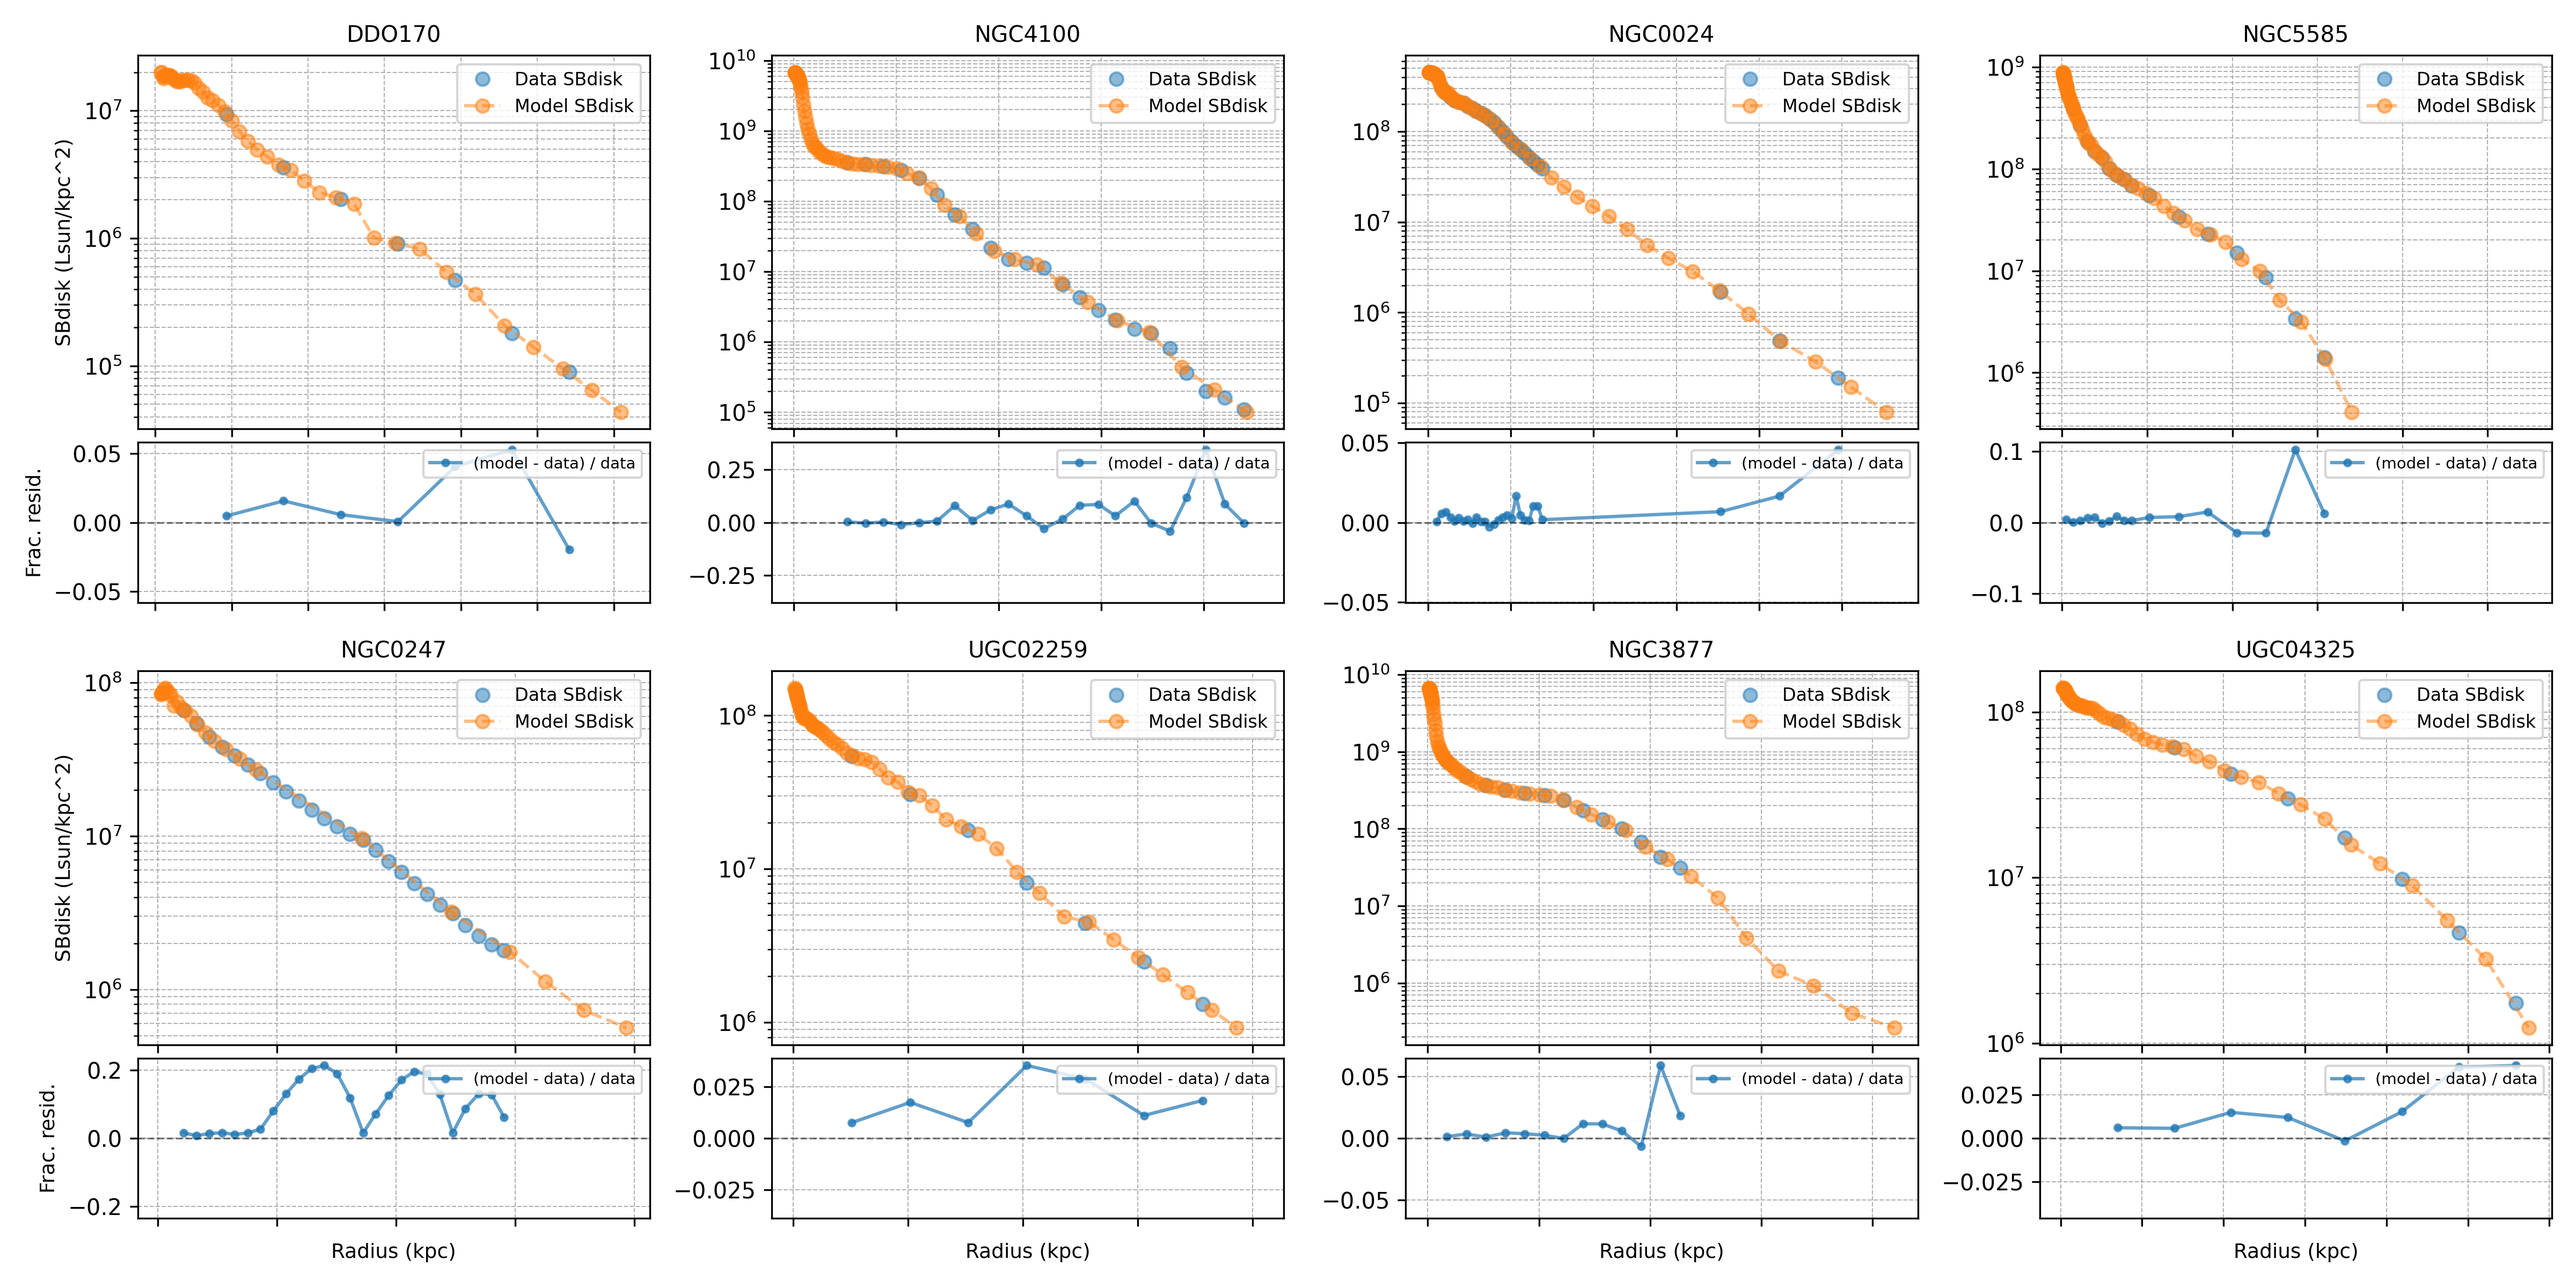
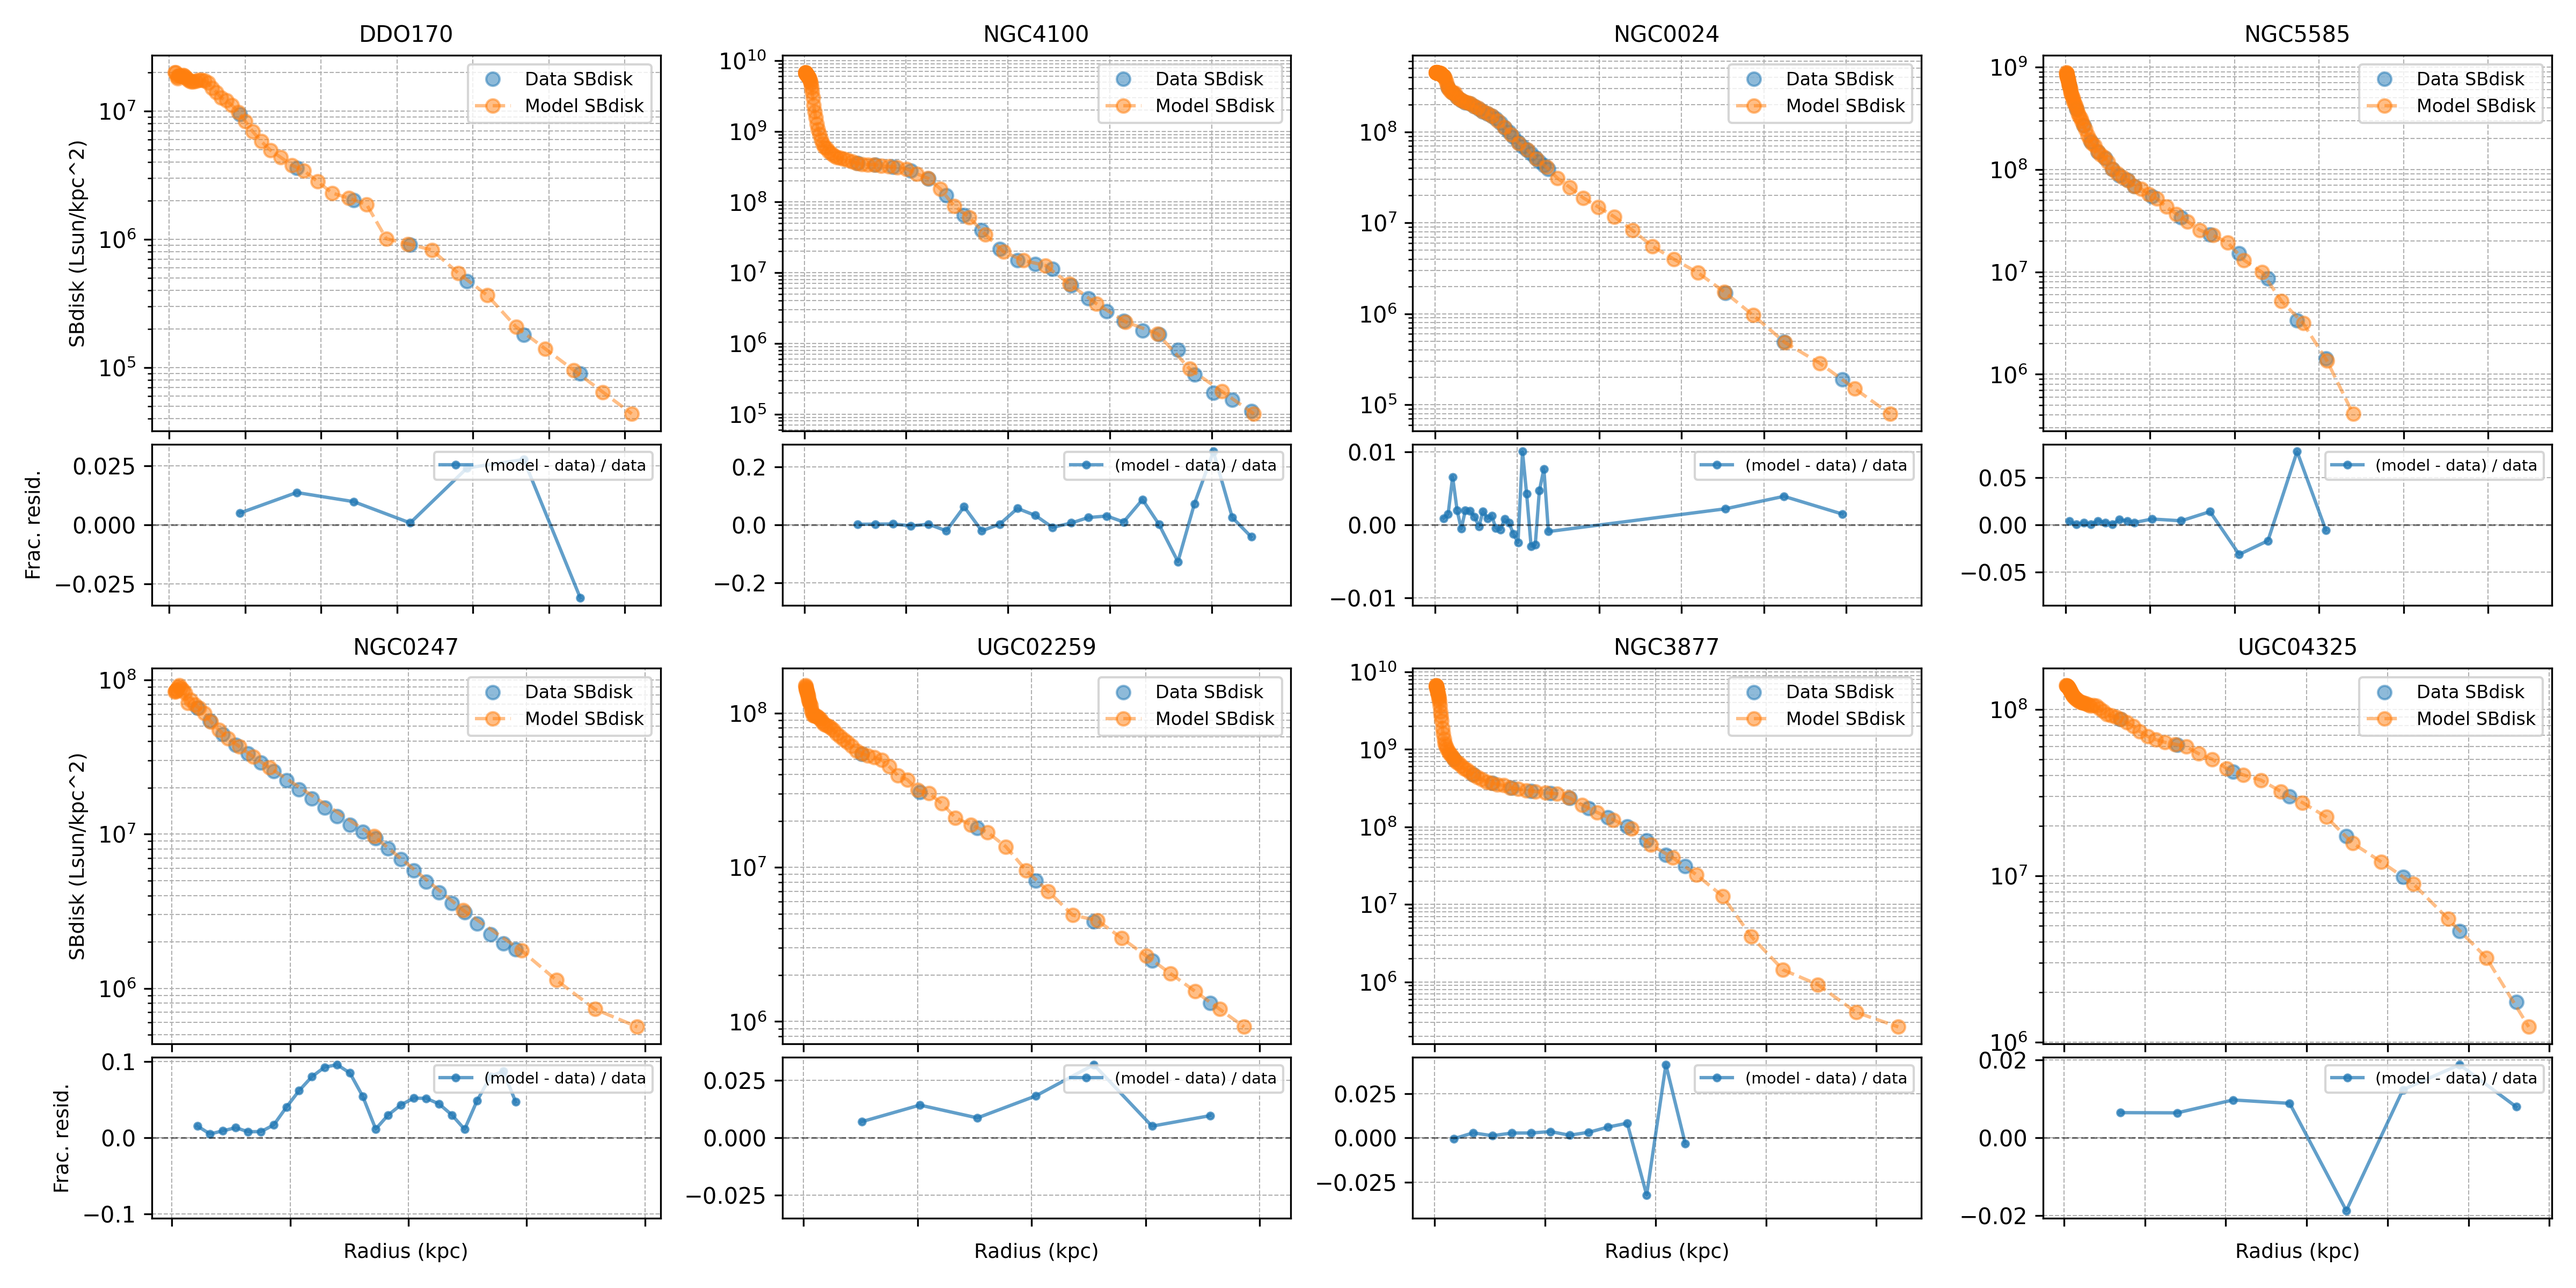
interpolate with pchip for smoothness

diff --git a/testing_varML.py b/testing_varML.py
@@ -14,6 +14,8 @@ from utils_analysis.get_SPARC import get_SPARC_data
 from matplotlib import pyplot as plt
 from matplotlib.gridspec import GridSpecFromSubplotSpec
 
+from scipy.interpolate import pchip_interpolate
+
 
 use_dens = True
 fit_const = False
@@ -49,8 +51,8 @@ def get_SBdisk(galaxy:str, inc:float):
     _, _, L = get_table(galaxy)
     SBdisk = SBdisk_raw * L / Ltot
 
-    print(f"\nGalaxy {galaxy}: L_disk (from .dens) = {Ltot:.0f}, L_disk (SPARC) = {L:.0f},"
-          f"\n cos(inc) = {jnp.cos(inc*jnp.pi/180):.3f}, scale factor = {L / Ltot:.3f}")
+    # print(f"\nGalaxy {galaxy}: L_disk (from .dens) = {Ltot:.0f}, L_disk (SPARC) = {L:.0f},"
+    #       f"\n cos(inc) = {jnp.cos(inc*jnp.pi/180):.3f}, scale factor = {L / Ltot:.3f}")
 
     return rad, SBdisk
 
@@ -93,7 +95,7 @@ def fit_multiplicative_constant(rad_model, SB_model, r_data, SB_data):
     sd_mask = sd[mask]
 
     # Interpolate model onto data radii
-    sm_interp = _np.interp(rd_mask, rm, sm)
+    sm_interp = pchip_interpolate(rm, sm, rd_mask)
 
     # Remove zero model points
     nonzero = sm_interp != 0
@@ -117,25 +119,24 @@ if __name__ == "__main__":
     
 
     # Fit multiplicative constant for each galaxy and store results
-    if fit_const:
-        SB_scales = {}
-        for gal in gals:
-            try:
-                inc_i, Rdisk_i, _ = get_table(gal)
-                if use_dens:
-                    rad_i, SBdisk_i = get_SBdisk(gal, inc_i)
-                else:
-                    rad_i = jnp.array(SPARC_data[gal]["r"])
-                    SBdisk_i = jnp.array(SPARC_data[gal]["data"]["SBdisk"]) * 1e6
+    SB_scales = {}
+    for gal in gals:
+        try:
+            inc_i, Rdisk_i, _ = get_table(gal)
+            if use_dens:
+                rad_i, SBdisk_i = get_SBdisk(gal, inc_i)
+            else:
+                rad_i = jnp.array(SPARC_data[gal]["r"])
+                SBdisk_i = jnp.array(SPARC_data[gal]["data"]["SBdisk"]) * 1e6
 
-                r_i = jnp.array(SPARC_data[gal]["r"])
-                data_SB = jnp.array(SPARC_data[gal]["data"]["SBdisk"]) * 1e6
+            r_i = jnp.array(SPARC_data[gal]["r"])
+            data_SB = jnp.array(SPARC_data[gal]["data"]["SBdisk"]) * 1e6
 
-                SB_scales[gal] = fit_multiplicative_constant(rad_i, SBdisk_i, r_i, data_SB)
-            except Exception:
-                SB_scales[gal] = None
+            SB_scales[gal] = fit_multiplicative_constant(rad_i, SBdisk_i, r_i, data_SB)
+        except Exception:
+            SB_scales[gal] = None
 
-        print("Best-fit SB multiplicative constants:", SB_scales)
+    print("Best-fit SB multiplicative constants:", SB_scales)
 
 
     # --- Rotation curve grid (2x4) ---
@@ -190,7 +191,7 @@ if __name__ == "__main__":
                 x_model = _np.asarray(adjusted_line.get_xdata())
                 y_model = _np.asarray(adjusted_line.get_ydata())
 
-                sm_interp = _np.interp(x_data, x_model, y_model)
+                sm_interp = pchip_interpolate(x_model, y_model, x_data)
                 nonzero = y_data != 0
                 max_allowed = min(_np.max(x_data), _np.max(x_model))
                 in_range = (x_data >= _np.min(x_model)) & (x_data <= max_allowed)
@@ -198,7 +199,7 @@ if __name__ == "__main__":
 
                 frac = _np.full_like(x_data, _np.nan, dtype=float)
                 if valid.any():
-                    sm_interp_valid = _np.interp(x_data[valid], x_model, y_model)
+                    sm_interp_valid = pchip_interpolate(x_model, y_model, x_data[valid])
                     frac[valid] = (sm_interp_valid - y_data[valid]) / y_data[valid]
 
                 ax_res.plot(x_data, frac, c="tab:blue", marker="o", ms=3, label="(model - data) / data", alpha=0.7)
@@ -288,7 +289,7 @@ if __name__ == "__main__":
                 y_model = _np.asarray(adjusted_line.get_ydata())
 
                 # interpolate adjusted model onto data radii
-                sm_interp = _np.interp(x_data, x_model, y_model)
+                sm_interp = pchip_interpolate(x_model, y_model, x_data)
 
                 # fractional residuals (model - data) / data, avoid divide-by-zero
                 nonzero = y_data != 0
@@ -300,7 +301,7 @@ if __name__ == "__main__":
 
                 frac = _np.full_like(x_data, _np.nan, dtype=float)
                 if valid.any():
-                    sm_interp_valid = _np.interp(x_data[valid], x_model, y_model)
+                    sm_interp_valid = pchip_interpolate(x_model, y_model, x_data[valid])
                     frac[valid] = (sm_interp_valid - y_data[valid]) / y_data[valid]
 
                 ax_res.plot(x_data, frac, c="tab:blue", marker="o", ms=3, label="(model - data) / data", alpha=0.7)
@@ -382,7 +383,7 @@ if __name__ == "__main__":
                 else: sb_adj_np = _np.asarray(SBdisk_i)
 
                 # Interpolate adjusted model onto data radii
-                sm_interp = _np.interp(r_np, rad_np, sb_adj_np)
+                sm_interp = pchip_interpolate(rad_np, sb_adj_np, r_np)
                 # Avoid division by zero in data
                 nonzero = data_SB != 0
                 frac = _np.full_like(r_np, _np.nan, dtype=float)
